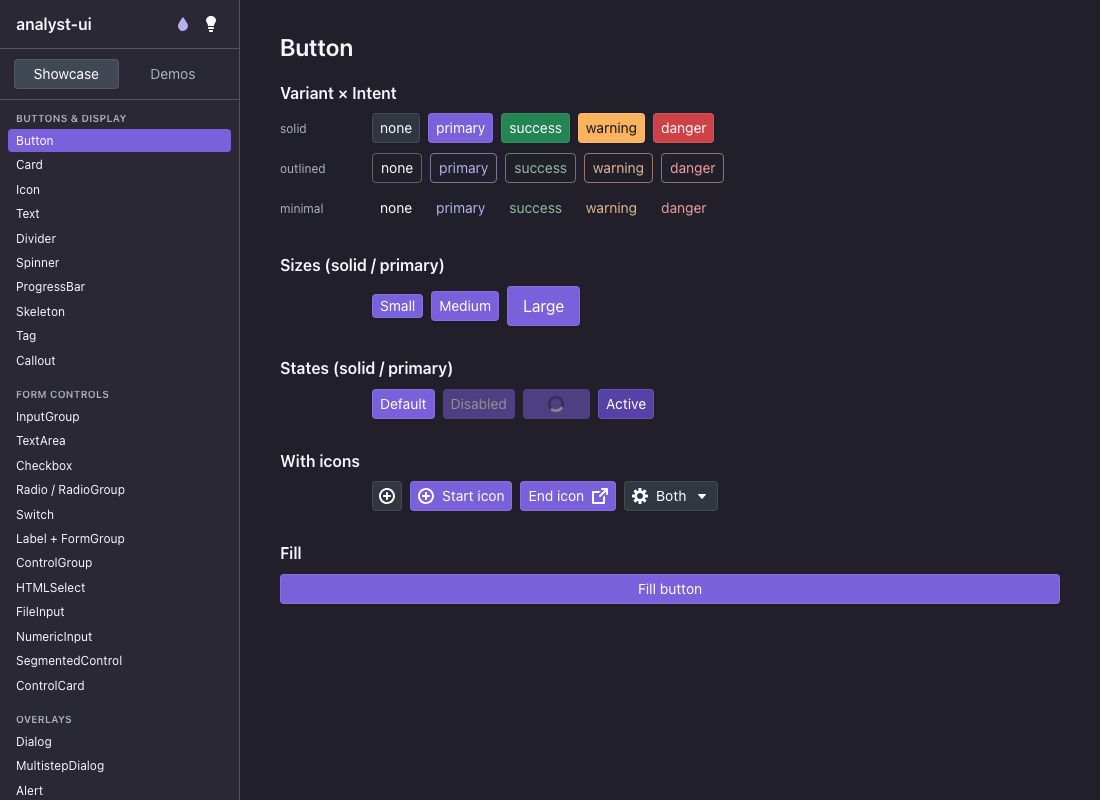
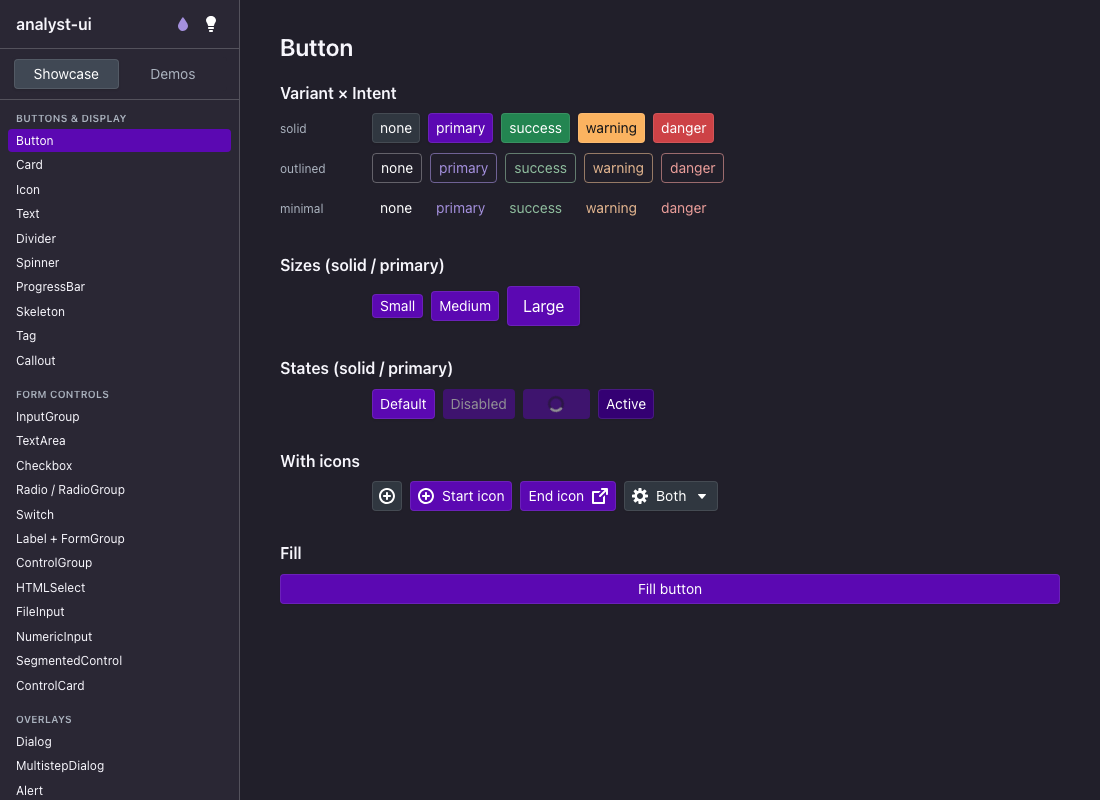
feat(tokens): retune purple example theme to rgb(91,8,178)
Re-seed [data-theme="purple"] primary to a vivid violet (rgb 91,8,178);
hover/active/disabled tiers mirror Blueprint's blue-ramp OKLCH steps applied to
the new base. Align the neutral hue-shift to the accent hue (~295). Refresh the
gallery screenshots and theming doc.

diff --git a/src/styles/tokens.css b/src/styles/tokens.css
@@ -540,22 +540,24 @@
  * from the P2.5 discussion) is planned future work; this is the static proof.
  * ========================================================================== */
 [data-theme="purple"] {
-    --color-primary: #7961db; /* indigo-3 */
-    --color-primary-hover: #634dbf; /* indigo-2 */
-    --color-primary-active: #5642a6; /* indigo-1 */
-    --color-primary-disabled: #9881f3; /* indigo-4 */
+    /* Vivid violet accent — rest = rgb(91,8,178); hover/active/disabled mirror
+     * Blueprint's blue-ramp OKLCH steps applied to that base (faithful stepping). */
+    --color-primary: #5b08b2; /* rgb(91, 8, 178) */
+    --color-primary-hover: #470092; /* rest l-0.074 c-0.017 */
+    --color-primary-active: #340073; /* rest l-0.143 c-0.036 */
+    --color-primary-disabled: #7339d1; /* rest l+0.095 c-0.004 */
     /* --color-success / --color-warning / --color-danger: override here to re-tint all four. */
 }
 
 @supports (color: oklch(from white l c h)) {
-    /* Subtle indigo-tinted neutrals (hue-shifted ramp). Gated because it derives
-     * from the default ramp; non-supporting engines keep the neutral grays. */
+    /* Subtle violet-tinted neutrals (hue-shifted to the accent's hue ≈ 295). Gated
+     * because it derives from the default ramp; non-supporting engines keep grays. */
     [data-theme="purple"] {
-        --color-light-gray-4: oklch(from #edeff2 l calc(c + 0.006) 288);
-        --color-light-gray-5: oklch(from #f6f7f9 l calc(c + 0.005) 288);
-        --color-dark-gray-1: oklch(from #1c2127 l calc(c + 0.008) 288);
-        --color-dark-gray-2: oklch(from #252a31 l calc(c + 0.008) 288);
-        --color-dark-gray-3: oklch(from #2f343c l calc(c + 0.008) 288);
+        --color-light-gray-4: oklch(from #edeff2 l calc(c + 0.006) 295);
+        --color-light-gray-5: oklch(from #f6f7f9 l calc(c + 0.005) 295);
+        --color-dark-gray-1: oklch(from #1c2127 l calc(c + 0.008) 295);
+        --color-dark-gray-2: oklch(from #252a31 l calc(c + 0.008) 295);
+        --color-dark-gray-3: oklch(from #2f343c l calc(c + 0.008) 295);
     }
 }
 

diff --git a/docs/theming.md b/docs/theming.md
@@ -74,8 +74,9 @@ light-mode semantic tokens (declared on `:root`) re-resolve against your seeds:
 ### Example: the bundled "purple" theme
 
 `tokens.css` ships one example, `[data-theme="purple"]`, which re-seeds the
-primary intent to Blueprint's indigo ramp and gives the neutral ramp a subtle
-indigo hue-shift. The gallery toggles it (the tint button in the sidebar) or via
+primary intent to a vivid violet (`rgb(91, 8, 178)`, with hover/active/disabled
+tiers derived from Blueprint's blue-ramp OKLCH steps) and gives the neutral ramp
+a subtle violet hue-shift. The gallery toggles it (the tint button in the sidebar) or via
 `?palette=purple` (add `&theme=dark` for the dark variant). It's the proof that a
 single seed override re-tints all four light/dark quadrants. Status intents are
 left semantic by choice — uncomment the `--color-success/-warning/-danger` lines